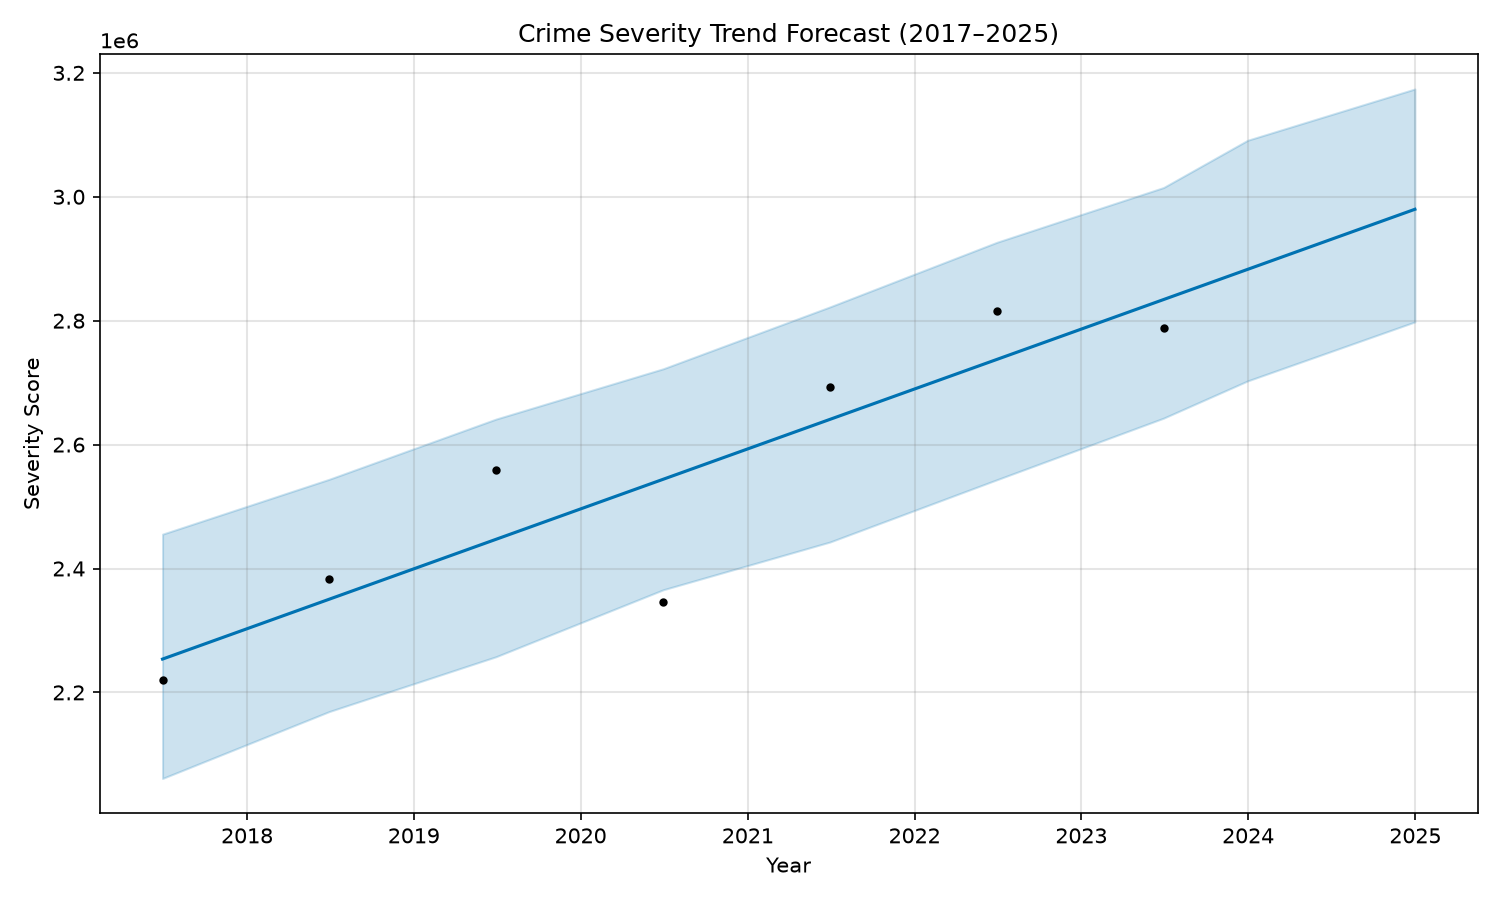
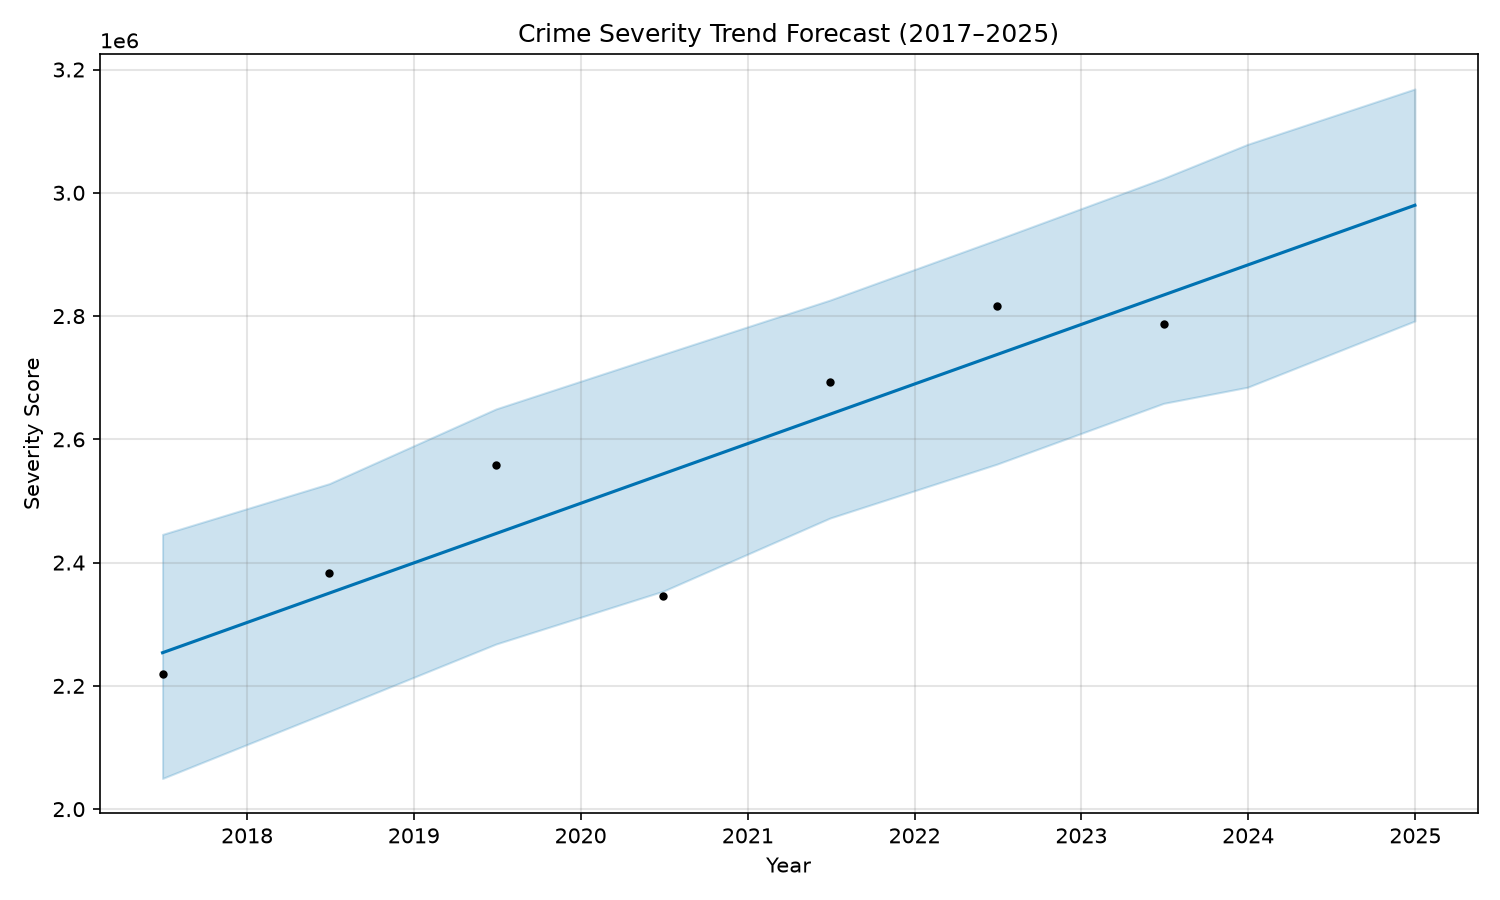
updated

diff --git a/backend/app.py b/backend/app.py
@@ -1,0 +1,76 @@
+from fastapi import FastAPI
+from fastapi.middleware.cors import CORSMiddleware
+from pydantic import BaseModel
+import joblib
+import pandas as pd
+import os
+
+app = FastAPI(
+    title="Women Safety Analytics API",
+    description="Risk prediction and analytics for women's safety in India",
+    version="1.0"
+)
+
+# Allow the frontend to call this API from anywhere
+app.add_middleware(
+    CORSMiddleware,
+    allow_origins=["*"],
+    allow_methods=["*"],
+    allow_headers=["*"],
+)
+
+# ---------- Load models at startup ----------
+BASE_DIR = os.path.dirname(os.path.abspath(__file__))
+MODELS_DIR = os.path.join(BASE_DIR, "..", "models")
+
+risk_model = joblib.load(os.path.join(MODELS_DIR, "risk_model.pkl"))
+feature_cols = joblib.load(os.path.join(MODELS_DIR, "feature_cols.pkl"))
+district_data = pd.read_csv(os.path.join(BASE_DIR, "..", "data", "processed", "/workspaces/Major_project/data/processed/district_level_data.csv.csv"))
+
+print("✅ Models and data loaded")
+
+
+# ---------- Request body for /predict ----------
+class PredictionInput(BaseModel):
+    year: int
+    state_code: int
+    district_code: int
+    # Instead of asking the user for 42 crime columns, we'll pull them
+    # from the most recent record of that district.
+
+
+# ---------- Endpoints ----------
+@app.get("/")
+def root():
+    return {
+        "status": "running",
+        "message": "Women Safety Analytics API is live",
+        "docs": "Visit /docs for interactive API documentation"
+    }
+
+
+@app.post("/predict")
+def predict(input_data: PredictionInput):
+    # Find the district's latest crime profile
+    district_rows = district_data[
+        (district_data["state_code"] == input_data.state_code) &
+        (district_data["district_code"] == input_data.district_code)
+    ]
+
+    if district_rows.empty:
+        return {"error": "District not found in dataset"}
+
+    # Use the most recent year's crime profile as the feature vector
+    latest = district_rows.sort_values("year").iloc[-1]
+    features = latest[feature_cols].values.reshape(1, -1)
+
+    prediction = risk_model.predict(features)[0]
+    probabilities = risk_model.predict_proba(features)[0]
+    confidence = float(max(probabilities))
+
+    return {
+        "district": latest["district_name"],
+        "state": latest["state_name"],
+        "predicted_risk": prediction,
+        "confidence": round(confidence, 3),
+    }
